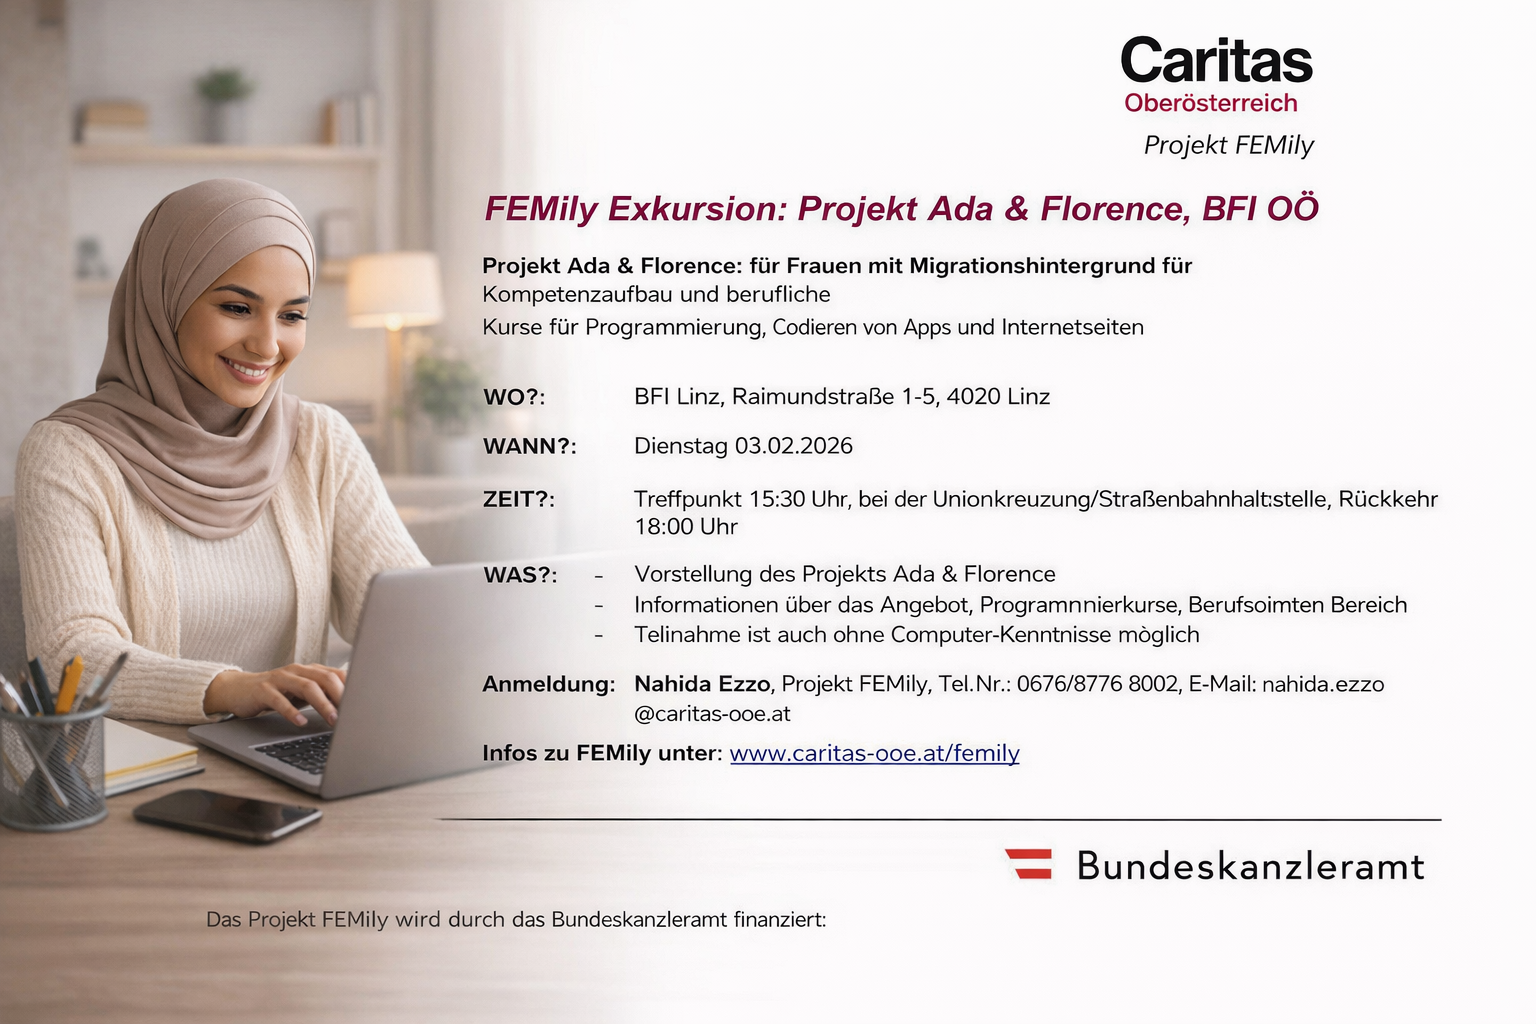
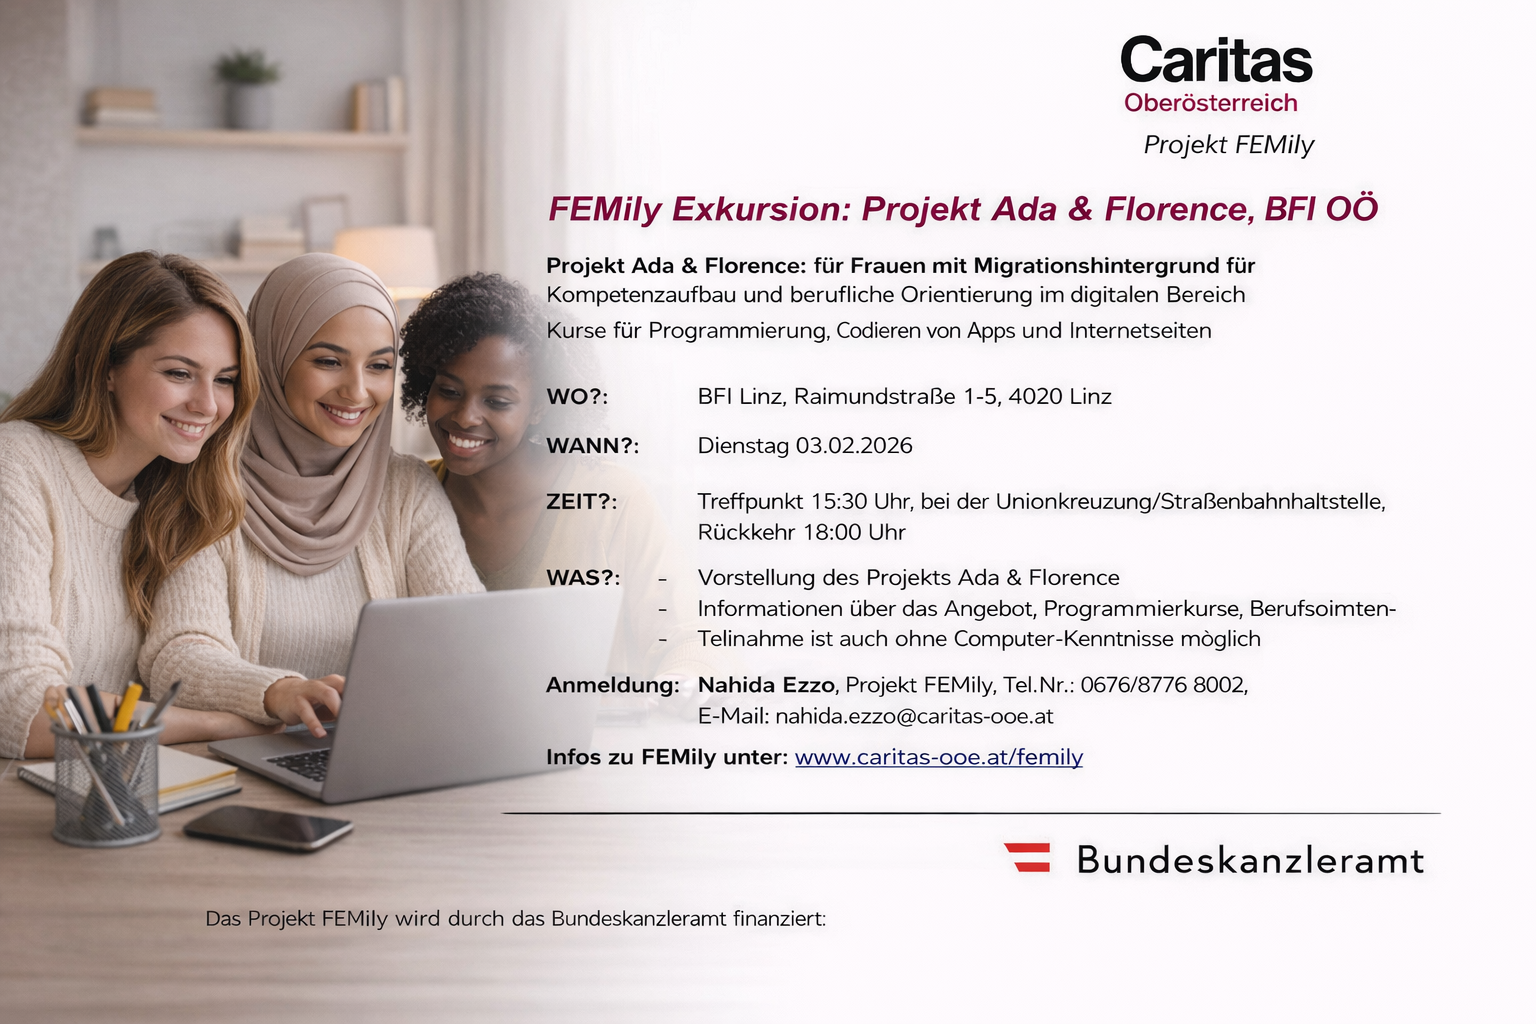
post

diff --git a/src/i18n.js b/src/i18n.js
@@ -325,7 +325,7 @@ i18n.use(initReactI18next).init({
         rozkolyada_text: 'You are cordially invited to share the joy of Christ\'s birth with us 🎄\nThe last chords of the holidays — at a joint celebration of Ukrainian choirs in Linz.\n\nYou can look forward to:\n🌟 joint prayer\n🌟 caroling and Christmas songs\n🌟 Ukrainian souvenirs\n🌟 refreshments, hot mulled wine and traditional punch\n\nMay the light of the Star of Bethlehem warm hearts, unite the community and fill this day with joy, peace and hope 🤍\n\n📍 ALTER DOM, DOMGASSE 3, 4020 LINZ\n🗓 01.02.2026\n\nWe look forward to seeing you and your whole family!',
         // FEMily excursion — Ada & Florence
         femily_title: 'FEMily: Projekt Ada & Florence, BFI OÖ',
-        femily_text: 'As part of the FEMily project, we invite women with a migration background to take part in the excursion to Projekt Ada & Florence at BFI Oberösterreich.\n\nThe Ada & Florence project aims to develop digital competencies and provide career orientation for women in the field of information technology. Participants can get information about courses in programming, app development and web design.\n\nThe event will take place:\n\nVenue: BFI Linz, Raimundstraße 1–5, 4020 Linz\n\nDate: Tuesday, 03.02.2026\n\nTime: Meeting point 15:30, return 18:00\n\nEvent programme:\n\n• Presentation of the Ada & Florence project\n\n• Information on the courses offered and career orientation opportunities in the digital sector\n\n• Participation is possible without prior computer knowledge\n\nRegistration and contact:\nNahida Ezzo\nProjekt FEMily\nTel.: 0676 8776 8002\nE-Mail: nahida.ezzo@caritas-ooe.at\n\nMore information about the FEMily project:\nwww.caritas-ooe.at/femily\n\nParticipation in the event is free of charge.'
+        femily_text: 'We invite women with a migration background to the excursion to Projekt Ada & Florence at BFI OÖ — digital skills and career orientation in IT (programming, apps, web). No prior computer knowledge required.\n\n📍 BFI Linz, Raimundstraße 1–5, 4020 Linz\n🗓 Tuesday, 03.02.2026 · 15:30–18:00\n\nProgramme: presentation of Ada & Florence, info on courses and career options.\n\nContact: Nahida Ezzo, Tel. 0676 8776 8002, nahida.ezzo@caritas-ooe.at\nwww.caritas-ooe.at/femily — free of charge.'
       }
     },
     de: {
@@ -515,7 +515,7 @@ i18n.use(initReactI18next).init({
         rozkolyada_text: 'Wir laden Sie herzlich ein, die Freude von Christi Geburt mit uns zu teilen 🎄\nDie letzten Akkorde der Feiertage — bei einer gemeinsamen Feier ukrainischer Chöre in Linz.\n\nEs erwarten Sie:\n🌟 gemeinsames Gebet\n🌟 Koljada und Weihnachtsgesänge\n🌟 ukrainische Souvenirs\n🌟 Bewirtung, heißer Glühwein und traditioneller Punsch\n\nMöge das Licht des Sterns von Betlehem die Herzen erwärmen, die Gemeinschaft einen und diesen Tag mit Freude, Frieden und Hoffnung erfüllen 🤍\n\n📍 ALTER DOM, DOMGASSE 3, 4020 LINZ\n🗓 01.02.2026\n\nWir freuen uns auf Sie mit der ganzen Familie!',
         // FEMily Exkursion — Ada & Florence
         femily_title: 'FEMily Exkursion: Projekt Ada & Florence, BFI OÖ',
-        femily_text: 'Im Rahmen des Projekts FEMily laden wir Frauen mit Migrationshintergrund zur Exkursion Projekt Ada & Florence beim BFI Oberösterreich ein.\n\nDas Projekt Ada & Florence zielt auf die Entwicklung digitaler Kompetenzen und die berufliche Orientierung von Frauen in der IT-Branche ab. Die Teilnehmerinnen können sich über Kurse in Programmierung, App-Entwicklung und Webseitenerstellung informieren.\n\nDie Veranstaltung findet statt:\n\nOrt: BFI Linz, Raimundstraße 1–5, 4020 Linz\n\nDatum: Dienstag, 03.02.2026\n\nUhrzeit: Treffpunkt 15:30 Uhr, Rückkehr 18:00 Uhr\n\nProgramm der Veranstaltung:\n\n• Präsentation des Projekts Ada & Florence\n\n• Informationen zu den angebotenen Kursen und Möglichkeiten der beruflichen Orientierung im digitalen Bereich\n\n• Teilnahme ohne Vorkenntnisse am Computer möglich\n\nAnmeldung und Kontakt:\nNahida Ezzo\nProjekt FEMily\nTel.: 0676 8776 8002\nE-Mail: nahida.ezzo@caritas-ooe.at\n\nWeitere Informationen zum Projekt FEMily:\nwww.caritas-ooe.at/femily\n\nDie Teilnahme an der Veranstaltung ist kostenlos.',
+        femily_text: 'Wir laden Frauen mit Migrationshintergrund zur Exkursion Projekt Ada & Florence beim BFI OÖ ein — digitale Kompetenzen und berufliche Orientierung in der IT (Programmierung, Apps, Web). Keine Vorkenntnisse nötig.\n\n📍 BFI Linz, Raimundstraße 1–5, 4020 Linz\n🗓 Dienstag, 03.02.2026 · 15:30–18:00 Uhr\n\nProgramm: Präsentation Ada & Florence, Infos zu Kursen und Berufsmöglichkeiten.\n\nKontakt: Nahida Ezzo, Tel. 0676 8776 8002, nahida.ezzo@caritas-ooe.at\nwww.caritas-ooe.at/femily — Teilnahme kostenlos.',
         // EU Protection Status translations
         eu_protection_title: 'Die EU bereitet den Übergang vom temporären Schutz für Ukrainer zu stabileren Rechtsstatus vor',
         eu_protection_description: 'Der Rat der Europäischen Union hat eine Empfehlung für den schrittweisen Ausstieg aus dem temporären Schutzregime genehmigt, das derzeit für durch den Krieg vertriebene Ukrainer gilt und bis zum 4. März 2027 verlängert wurde.\n\nDie Empfehlungen umfassen:\n• Erteilung nationaler Aufenthaltsgenehmigungen an diejenigen, die arbeiten, studieren, in einer Familie leben oder andere festgelegte Bedingungen erfüllen.\n• Die Möglichkeit des Übergangs zu Status nach EU-Recht, insbesondere für hochqualifizierte Fachkräfte.\n• Die Organisation der freiwilligen Rückkehr in die Ukraine, wenn die Situation es zulässt, mit Unterstützung und koordinierten Bedingungen zwischen den Mitgliedstaaten.\n• Die Verpflichtung, vertriebene Personen über ihre aktuellen Rechte, die Änderung der Leistungen und das, was nach dem Ausstieg aus dem temporären Schutz passieren wird, zu informieren.\n\nIn der EU-Mitteilung wird betont, dass diese Initiative nicht darauf abzielt, die Beendigung des Schutzes zu beschleunigen, sondern vielmehr darauf, die Infrastruktur und den Rechtsrahmen vorzubereiten, um einen normativ korrekten, fairen und schrittweisen Übergang vom temporären Schutz zu dauerhafteren Bedingungen zu gewährleisten.',
@@ -986,7 +986,7 @@ i18n.use(initReactI18next).init({
         rozkolyada_text: 'Сердечно запрошуємо вас розділити з нами радість Христового Різдва 🎄\nОстанні акорди свят — у спільному святкуванні українських співочих колективів у Лінці.\n\nНа вас чекають:\n🌟 спільна молитва\n🌟 коляда та різдвяні піснеспіви\n🌟 українські сувеніри\n🌟 частування, гарячий глінтвейн і традиційний пунш\n\nНехай світло Вифлеємської зорі зігріє серця, об\'єднає громаду та наповнить цей день радістю, миром і надією 🤍\n\n📍 ALTER DOM, DOMGASSE 3, 4020 LINZ\n🗓 01.02.2026\n\nЧекаємо на вас усією родиною!',
         // FEMily екскурсія — Ada & Florence
         femily_title: 'FEMily Екскурсія: Проект Ada & Florence, BFI OÖ',
-        femily_text: 'В рамках проекту FEMily запрошуємо жінок з міграційним фоном взяти участь у екскурсії Projekt Ada & Florence в BFI Oberösterreich.\n\nПроект Ada & Florence спрямований на розвиток цифрових компетенцій та професійну орієнтацію жінок у сфері інформаційних технологій. Учасниці зможуть отримати інформацію про курси з програмування, створення застосунків та інтернет-сторінок.\n\nЗахід відбудеться:\n\nМісце: BFI Linz, Raimundstraße 1–5, 4020 Linz\n\nДата: Вівторок, 03.02.2026\n\nЧас: Збір о 15:30, повернення о 18:00\n\nПрограма заходу:\n\n• Презентація проекту Ada & Florence\n\n• Інформація про пропоновані курси та можливості професійної орієнтації в цифровій сфері\n\n• Участь можлива без попередніх комп\'ютерних знань\n\nРеєстрація та контакт:\nNahida Ezzo\nProjekt FEMily\nТел.: 0676 8776 8002\nE-Mail: nahida.ezzo@caritas-ooe.at\n\nДодаткова інформація про проект FEMily:\nwww.caritas-ooe.at/femily\n\nУчасть у заході безкоштовна.',
+        femily_text: 'Запрошуємо жінок з міграційним фоном на екскурсію Projekt Ada & Florence в BFI OÖ — цифрові компетенції та професійна орієнтація в IT (програмування, застосунки, веб). Попередні знання не потрібні.\n\n📍 BFI Linz, Raimundstraße 1–5, 4020 Linz\n🗓 Вівторок, 03.02.2026 · 15:30–18:00\n\nПрограма: презентація Ada & Florence, інформація про курси та кар’єрні можливості.\n\nКонтакт: Nahida Ezzo, тел. 0676 8776 8002, nahida.ezzo@caritas-ooe.at\nwww.caritas-ooe.at/femily — участь безкоштовна.',
         // EU Protection Status translations
         eu_protection_title: 'ЄС готується перейти від тимчасового захисту українців до більш стійких правових статусів',
         eu_protection_description: 'Рада Європейського Союзу схвалила рекомендацію щодо поетапного виходу з режиму тимчасового захисту, який нині діє для українців, переміщених війною, та продовжений до 4 березня 2027 року.\n\nРекомендації включають:\n• Надання національних дозволів на проживання тим, хто працює, навчається, перебуває в сім\'ї або відповідає іншим встановленим умовам.\n• Можливість переходу до статусів за законами ЄС, особливо для висококваліфікованих фахівців.\n• Організацію добровільного повернення до України, коли це дозволяє ситуація, з підтримкою та скоординованими умовами між державами-членами.\n• Зобов\'язання інформувати переміщених осіб про їх поточні права, як зміняться пільги та що відбудеться після виходу з тимчасового захисту.\n\nУ комюніке ЄС підкреслюється, що ця ініціатива не спрямована на прискорення припинення захисту, а скоріше на підготовку інфраструктури та правової бази для забезпечення нормативно правильного, справедливого та поступового переходу від тимчасового захисту до більш постійних умов.',
